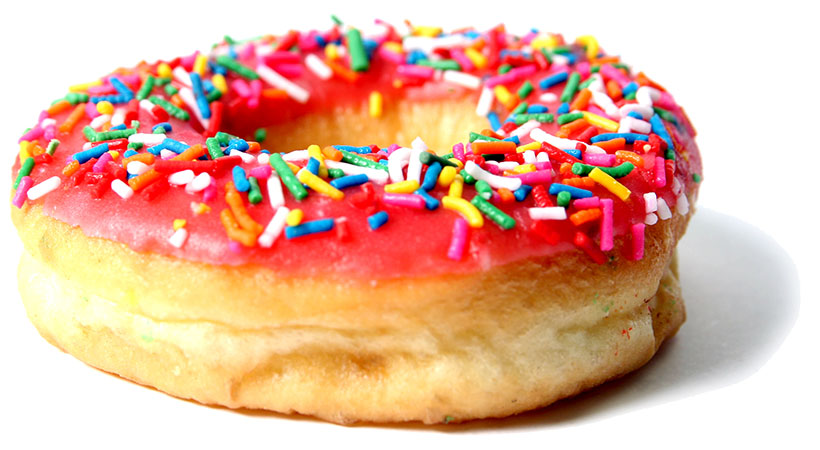
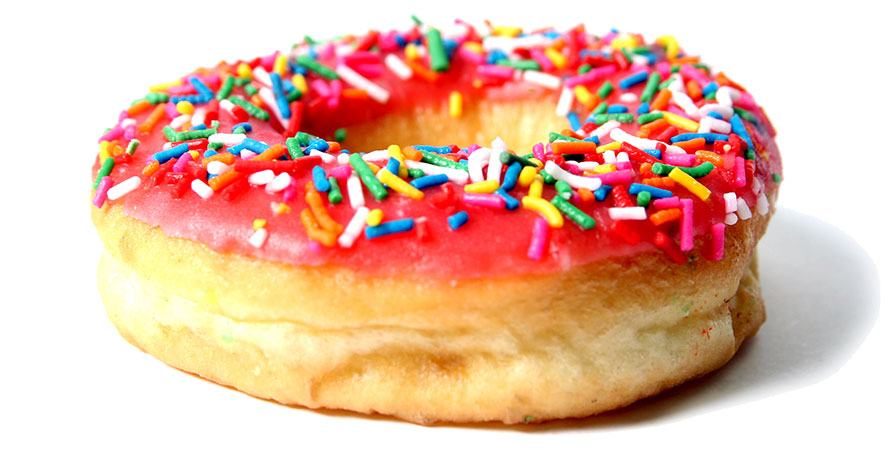
center that donut

diff --git a/assets/stylesheets/application.sass b/assets/stylesheets/application.sass
@@ -168,7 +168,7 @@ header.error-page
   margin-top: 50px
   padding-top: 245px
   background: url('/images/yum.jpg') no-repeat top center
-  background-size: 410px 225px
+  background-size: 444px 225px
   text-align: center
   h1
     font-family: 'myriad-pro', myriad, 'helvetica neue', 'lucida grande', sans-serif
